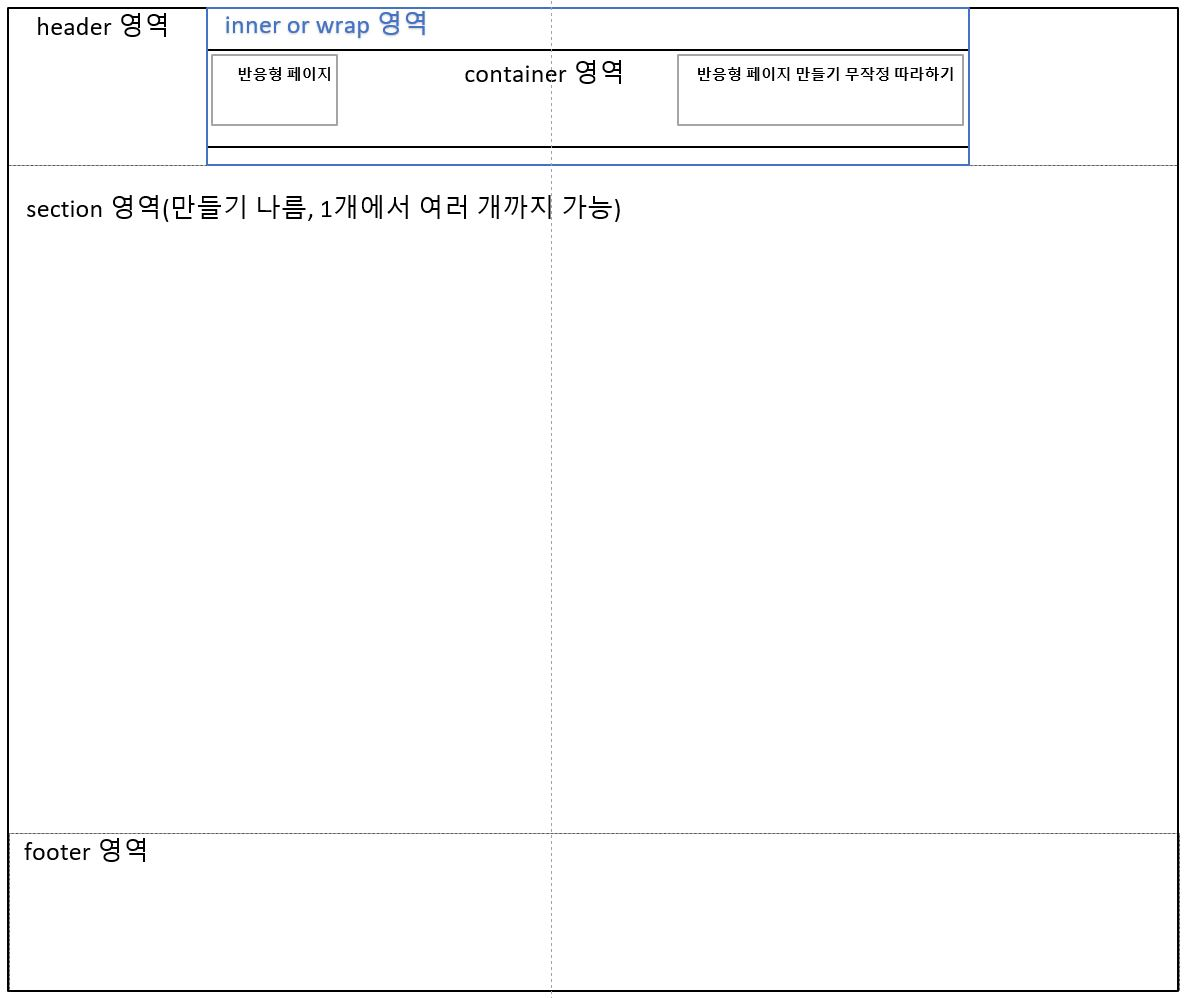
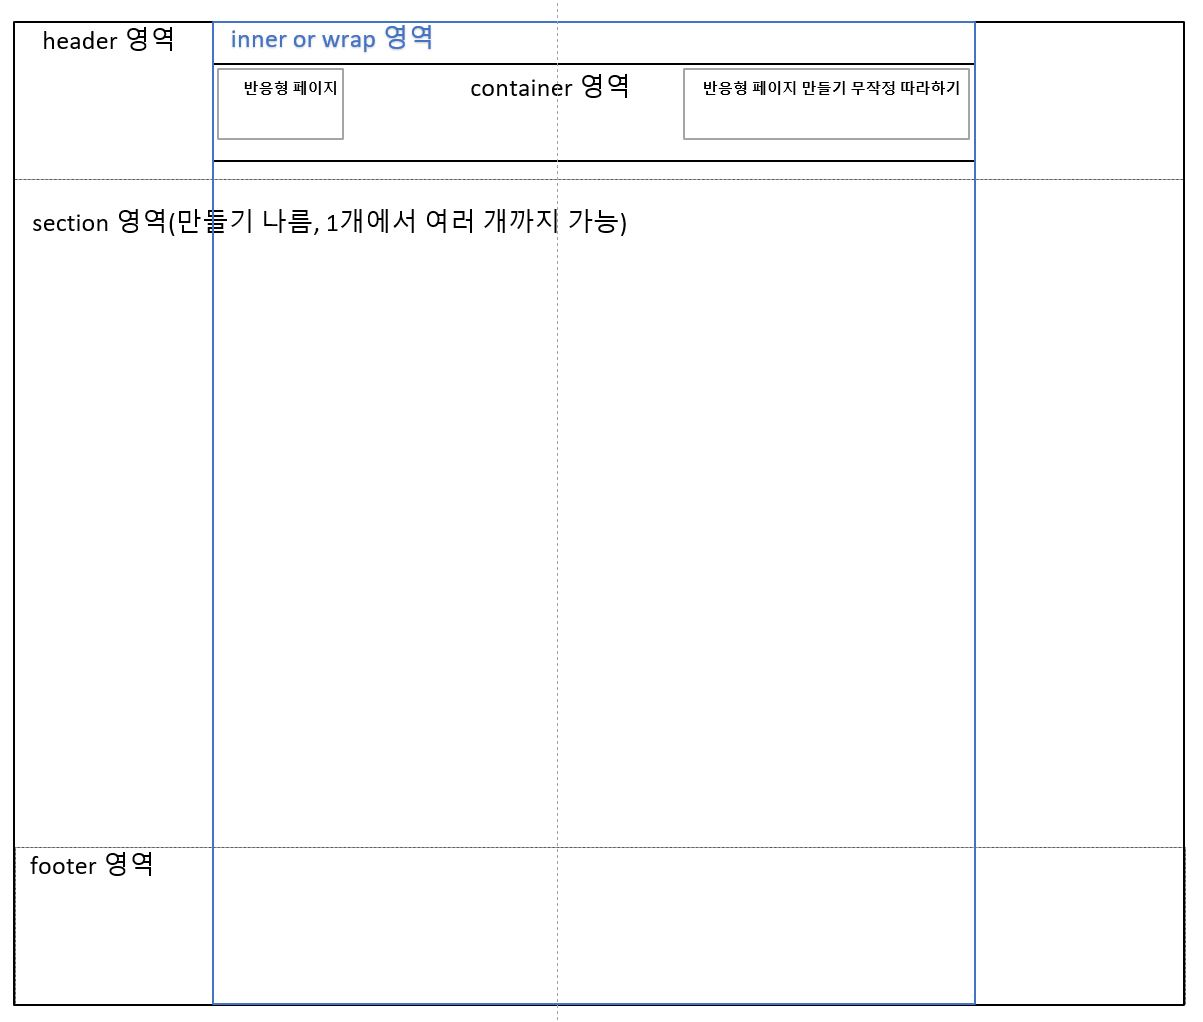
0331

Changed region(s): [[0.0, 0.0, 0.9983, 0.994], [0.7799, 0.8076, 0.8111, 0.8387], [0.156, 0.8076, 0.1872, 0.8387]]

diff --git a/_posts/2022-03-31-HtmlCssJs0002.md b/_posts/2022-03-31-HtmlCssJs0002.md
@@ -140,7 +140,7 @@ body {
 
 <h6>모든 홈페이지는 가로가 일정 사이즈 이상이면 가운데에 특정한 사이즈로 표시되도록 해야 하고 수평정렬을 위해 flex 옵션을 사용해야 한다.<br> 헤드 부분을 아래와 같이 보이기 위해 코딩을 진행한다.<h6>
 <div align="center">
-<img src="" width="450">
+<img src="https://github.com/Gibson1211/Gibson1211.github.io/blob/master/assets/images/layoutOfHomepage.JPG?raw=true" width="600">
 </div>
 <br>
 
@@ -148,27 +148,11 @@ body {
 
 ```html
  <body>
-    <!-- CSS class naming (BEM 명명규칙: Block Element Modifier 순으로 작성)
-    __ : ~ 의 하위 요소를(속해있는) 나타냄
-    -- : ~ 의 상태를 나타냄(수정한다 라는 느낌)
-    - : 단어와 단어사이는 하이픈 (BlueBox X, blueBox X, blue_box X, blue-box O)
-    예를 들어, box-container__title--blue 와 같이 작성할 수 있음 (참고로만 알아두면 됨)
-    -->
-
-    <!-- 항상 화면을 100% 로 사용하면, 와이드 스크린에서 웹페이지가 기대와 달리 보일 수 있음 -->
-
-    <!-- header 에 상단 메뉴까지 넣을 예정 -->
-    <!-- 전체 layout 는 시멘틱 태그로 구성하고,
-      각 layout component 는 width를 100% 로 하되,
-      해당 component 에 들어가는 요소들은 특정 가로 사이즈 이상에서는 특정 사이즈로 가운데에 정렬되도록,
-      inner 클래스로 감싸주기로 함
-      각 하부 요소 배치를 위해서는 각 layout 별 container 로 정의해주기로 함
-    -->
     <header>
       <div class="inner">
         <div class="head-container">
-          <div class="head-brand"><a href="https://www.fun-coding.org">잔재미코딩</a></div>
-          <div class="head-blog"><a href="https://www.fun-coding.org/daveblog.html">잔재미코딩 블로그 모음</a></div>
+          <div class="head-git"><a href="https://github.com/Gibson1211">Gibson's git</a></div>
+          <div class="head-blog"><a href="https://gibson1211.github.io/">Gibson's blog</a></div>
         </div>
       </div>
     </header>
@@ -179,4 +163,53 @@ body {
 
     <!-- <script src="js/main.js"></script> -->
   </body>
+```
+<br>
+<h6> CSS class naming (BEM 명명규칙: Block Element Modifier 순으로 작성)<br>
+      1.  __ : ~ 의 하위 요소를(속해있는) 나타냄<br>
+      2.  -- : ~ 의 상태를 나타냄(수정한다 라는 느낌)<br>
+      3.  - : 단어와 단어사이는 하이픈 (blue-box)<br>
+      ※  예를 들어, box-container__title--blue 와 같이 작성할 수 있음 (참고)<br>
+
+<h6> header 에 상단 메뉴까지 넣을 예정으로 전체 layout 는 시멘틱 태그로 구성하고,<br>
+      각 layout component 는 width를 100% 로 하되, 해당 component 에 들어가는 요소들은<br>
+      특정 가로 사이즈 이상에서는 특정 사이즈로 가운데에 정렬되도록 inner 클래스로 감쌈<br>
+      각 하부 요소 배치를 위해서는 각 layout 별 container 로 정의해주기로 함</h6>
+<br>
+
+```css
+* {
+  box-sizing: border-box;
+}
+
+body {
+  /*body의 가로 사이즈가 커지면 모든 요소는 중앙에 위치해야 하기에 마진을 위아래는 0 그리고 좌우를 auto로 해놓는다.*/
+  margin: 0 auto;
+  color: #3f464d;
+  font-family: "Spoqa Han Sans Neo", "Sans-serif";
+}
+
+.inner {
+  width: 100%; /* 가로 사이즈가 1200px 넘는 해상도에서는 max-width 설정 */
+  height: 100%; /* align-items 등으로 수직 가운데 정렬을 위해, 알맞은 height 설정이 필요함 */
+  margin: 0 auto; /* 가운데 정렬: 동일 요소에 width 가 설정되어 있을 때에만 적용 */
+}
+
+/*브라우저 사이즈가 1200px보다 커질때 안에 내용이 더이상 커지지 않고 중앙에 정렬되는 값(.inner의 max-width)을 정해준다.*/
+@media only screen and (min-width: 1200px) {
+  .inner {
+    max-width: 1200px;
+  }
+}
+
+/*  상단은 고정되어 스크롤 다운이 되더라도 아래로 내려가면 안된다.*/
+header {
+  width: 100%;
+  height: 60px;
+  background-color: #ffffff;
+  position: fixed; 
+  top: 0;
+  left: 0;
+  z-index: 1000;
+}
 ```
